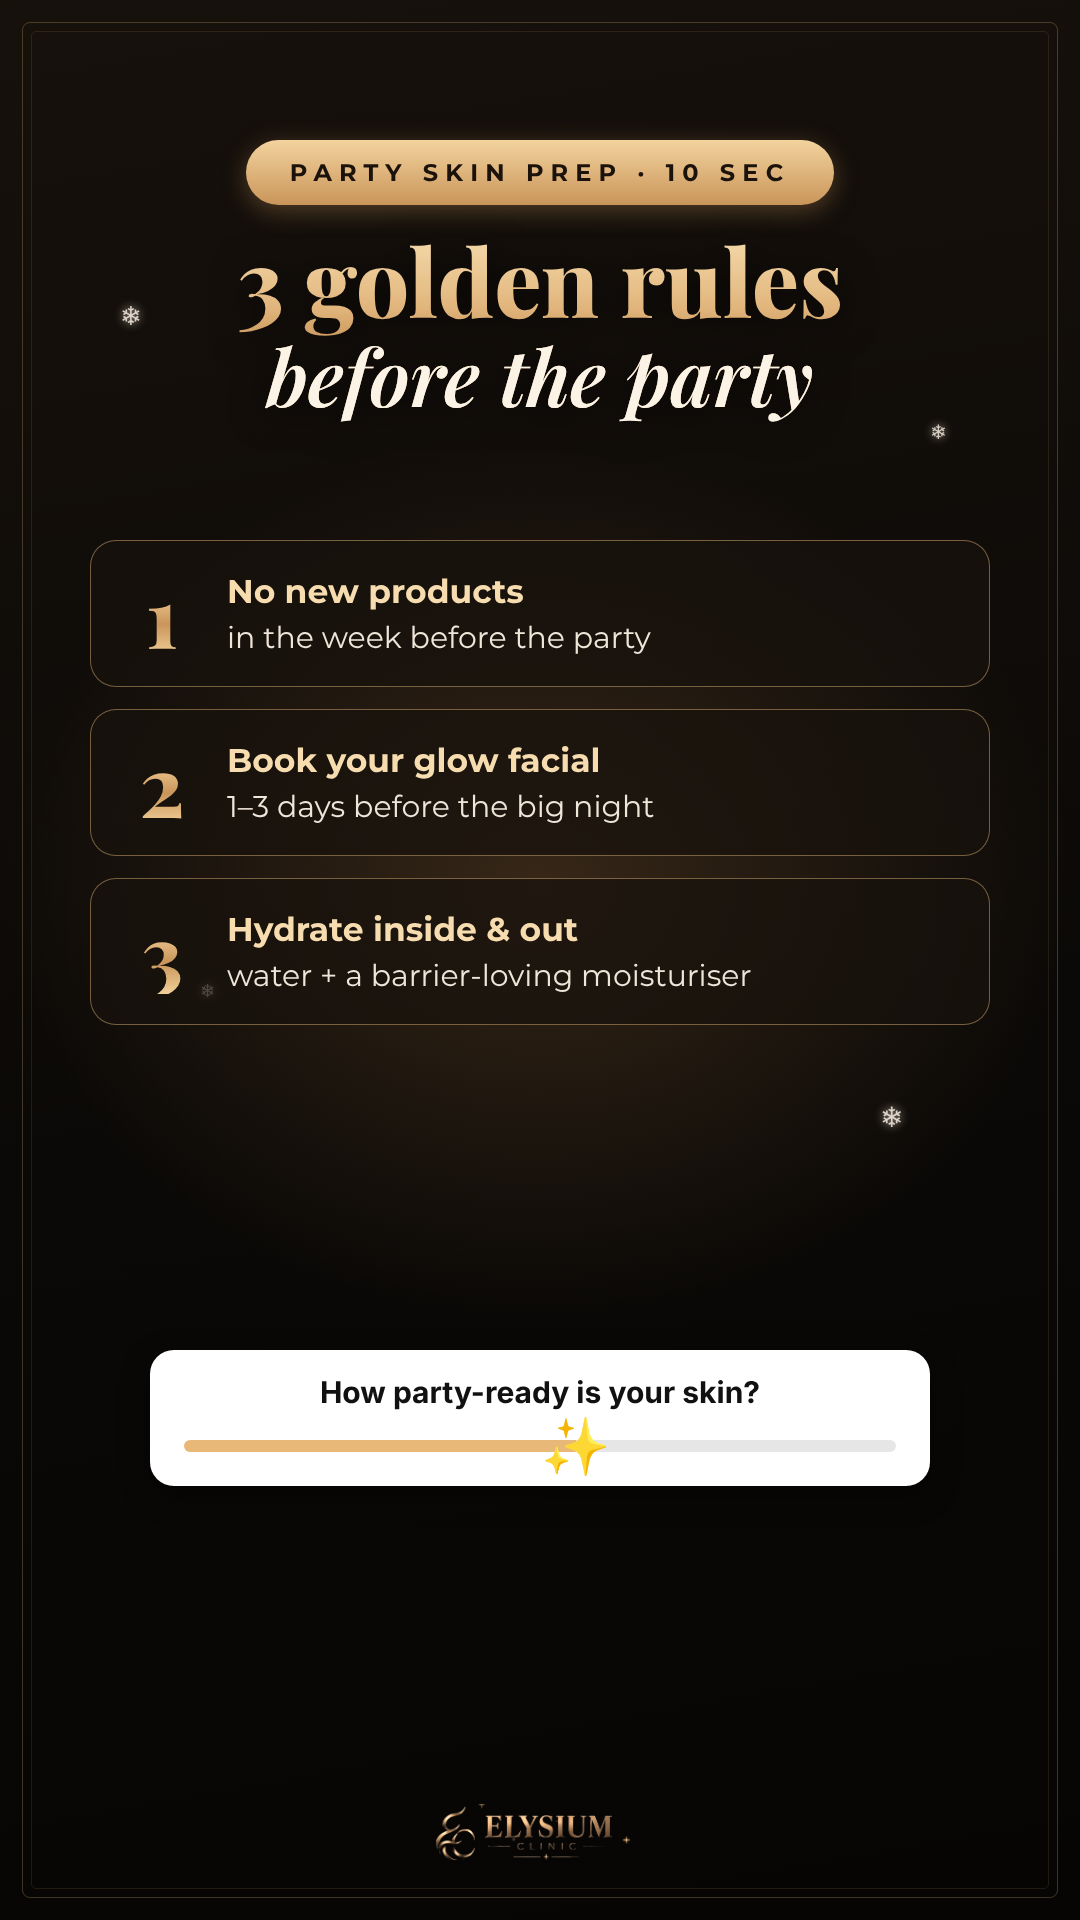
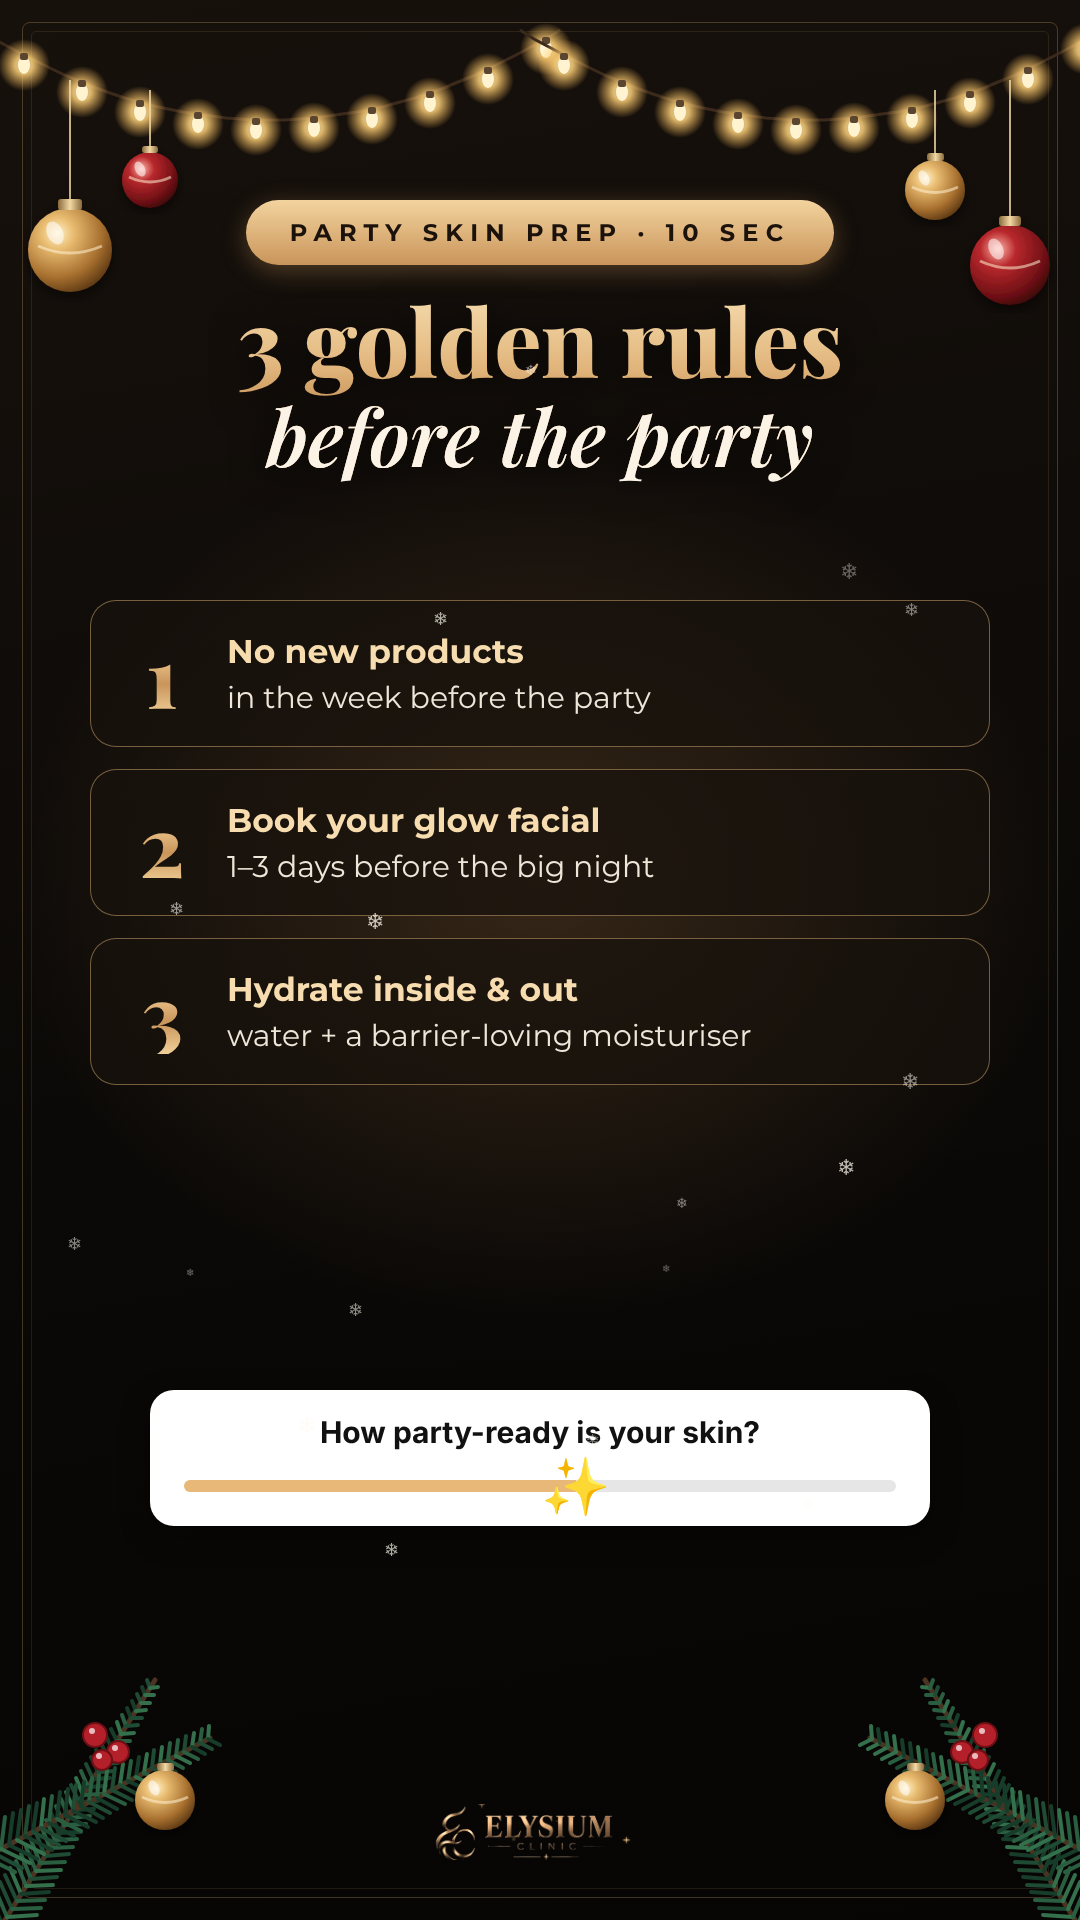
26.11: festive decor (fairy lights, baubles, pine) on stories, new winter photo
Claude-Session: https://claude.ai/code/session_01SaUhS5EeEBn7oMfuXG8zXf

diff --git a/posts_26_11/src/s3_2030.html b/posts_26_11/src/s3_2030.html
@@ -2,21 +2,21 @@
 .bg{position:absolute;inset:0;background:url(glow_a.jpg) center 40%/cover;filter:blur(3px) brightness(.4);transform:scale(1.05)}
 .shade{position:absolute;inset:0;background:linear-gradient(180deg,rgba(10,7,5,.9) 0%,rgba(10,7,5,.55) 30%,rgba(10,7,5,.65) 55%,rgba(10,7,5,.95) 80%)}
 .snow{position:absolute;color:rgba(255,248,236,.8);text-shadow:0 0 10px rgba(255,240,220,.7)}
-.top{position:absolute;top:150px;left:0;right:0;text-align:center}
+.top{position:absolute;top:200px;left:0;right:0;text-align:center}
 .new{display:inline-block;margin-top:22px;font-size:21px;letter-spacing:.3em;color:var(--gold1);font-weight:700;border:1.5px solid rgba(216,173,116,.7);border-radius:40px;padding:10px 26px}
 .h{font-size:100px;font-weight:800;line-height:1.02;margin-top:26px}
 .h em{display:block;font-style:italic;font-weight:600;font-size:84px;color:#fbf3e6;-webkit-text-fill-color:#fbf3e6;margin-top:6px}
-.card{position:absolute;left:90px;right:90px;top:680px;padding:30px 40px}
+.card{position:absolute;left:90px;right:90px;top:720px;padding:30px 40px}
 .rw{display:flex;justify-content:space-between;align-items:center;padding:18px 0;border-bottom:1px solid rgba(216,173,116,.25)}
 .rw:last-child{border-bottom:none}
 .rw .n{font-size:29px;font-weight:700;color:#fbf3e6}
 .rw .d{font-size:21px;color:#a8998a;margin-top:4px}
 .rw .p{font-family:'Playfair Display',serif;font-size:56px;font-weight:800}
 .rw .p s{font-size:27px;color:#8a7c6a;-webkit-text-fill-color:#8a7c6a;margin-left:8px}
-.slt{position:absolute;left:0;right:0;top:1250px;text-align:center}
+.slt{position:absolute;left:0;right:0;top:1290px;text-align:center}
 .zone{position:absolute;left:0;right:0;text-align:center;font-size:22px;letter-spacing:.3em;color:rgba(246,220,174,.8);font-weight:600}
 .logo{bottom:100px;width:240px}
-</style></head><body><div class="s"><div class="bg"></div><div class="shade"></div><div class="deco"></div><div class="snow" style="left:120px;top:300px;font-size:26px">❄</div><div class="snow" style="left:930px;top:420px;font-size:20px">❄</div><div class="snow" style="left:200px;top:980px;font-size:18px">❄</div><div class="snow" style="left:880px;top:1100px;font-size:28px">❄</div>
+</style></head><body><div class="s"><div class="bg"></div><div class="shade"></div><div class="deco"></div>
 <div class="top"><div class="pill">BLACK FRIDAY · 4 DAYS LEFT</div><br><div class="new">▶ NEW REEL · WHAT TO BOOK &amp; WHEN</div>
 <div class="h goldtext serif ds">Party-ready<em>skin</em></div></div>
 <div class="card glass">
@@ -25,6 +25,6 @@
 <div class="rw"><div><div class="n">ElastiStrom &amp; RF</div><div class="d">party next week · instant lift</div></div><div class="p goldtext">£130<s>£210</s></div></div>
 <div class="rw"><div><div class="n">RF Microneedling</div><div class="d">party in 4+ weeks · peak results</div></div><div class="p goldtext">£110<s>£180</s></div></div></div>
 <div class="slt"><div class="pill" style="font-size:24px">__SLOTS__</div></div>
-<div class="zone" style="top:1380px">BOOK YOUR SLOT ↓</div>
+<div class="zone" style="top:1410px">BOOK YOUR SLOT ↓</div>
 <div class="zone" style="top:1620px;font-size:20px;color:rgba(239,230,218,.6)">or send “PARTY” + your party date in DM</div>
-<div class="logo"><img src="logo.png"></div></div></body></html>
+<img src="xmas_decor.svg" style="position:absolute;inset:0;width:1080px;height:1920px;pointer-events:none"><div class="logo"><img src="logo.png"></div></div></body></html>

diff --git a/posts_26_11/src/s2_1300.html b/posts_26_11/src/s2_1300.html
@@ -6,20 +6,20 @@
 .zone{position:absolute;left:0;right:0;text-align:center;font-size:22px;letter-spacing:.3em;color:rgba(246,220,174,.85);font-weight:600}
 .snow{position:absolute;color:rgba(255,248,236,.8);text-shadow:0 0 10px rgba(255,240,220,.7)}
 .s{background:radial-gradient(ellipse 760px 620px at 50% 46%,rgba(150,105,60,.30),transparent 70%),linear-gradient(170deg,#17110c 0%,#0b0907 55%,#060504 100%)}
-.top{position:absolute;top:140px;left:0;right:0;text-align:center}
+.top{position:absolute;top:200px;left:0;right:0;text-align:center}
 .h{font-size:94px;font-weight:800;line-height:1.04;margin-top:26px}
 .h em{display:block;font-style:italic;font-weight:600;font-size:78px;color:#fbf3e6;-webkit-text-fill-color:#fbf3e6;margin-top:6px}
-.tips{position:absolute;left:90px;right:90px;top:540px;display:flex;flex-direction:column;gap:22px}
+.tips{position:absolute;left:90px;right:90px;top:600px;display:flex;flex-direction:column;gap:22px}
 .tip{display:flex;align-items:center;gap:30px;padding:28px 36px;border-radius:26px;background:rgba(24,18,12,.72);border:1.5px solid rgba(216,173,116,.5)}
 .tip .n{font-family:'Playfair Display',serif;font-size:84px;font-weight:800;line-height:1;width:70px;text-align:center}
 .tip .t{font-size:30px;line-height:1.35;color:#efe6da}
 .tip .t i{display:block;font-style:normal;font-weight:700;color:#f6dcae;font-size:33px;margin-bottom:4px}
 .logo{bottom:60px;width:210px}
-</style></head><body><div class="s"><div class="deco"></div><div class="snow" style="left:120px;top:300px;font-size:26px">❄</div><div class="snow" style="left:930px;top:420px;font-size:20px">❄</div><div class="snow" style="left:200px;top:980px;font-size:18px">❄</div><div class="snow" style="left:880px;top:1100px;font-size:28px">❄</div>
+</style></head><body><div class="s"><div class="deco"></div>
 <div class="top"><div class="pill">PARTY SKIN PREP · 10 SEC</div><div class="h goldtext serif ds">3 golden rules<em>before the party</em></div></div>
 <div class="tips">
 <div class="tip"><div class="n goldtext">1</div><div class="t"><i>No new products</i>in the week before the party</div></div>
 <div class="tip"><div class="n goldtext">2</div><div class="t"><i>Book your glow facial</i>1–3 days before the big night</div></div>
 <div class="tip"><div class="n goldtext">3</div><div class="t"><i>Hydrate inside &amp; out</i>water + a barrier-loving moisturiser</div></div></div>
 __STK__
-<div class="logo"><img src="logo.png"></div></div></body></html>
+<img src="xmas_decor.svg" style="position:absolute;inset:0;width:1080px;height:1920px;pointer-events:none"><div class="logo"><img src="logo.png"></div></div></body></html>

diff --git a/posts_26_11/src/s1_0830.html b/posts_26_11/src/s1_0830.html
@@ -5,13 +5,13 @@
 .stk .bar i{position:absolute;left:55%;top:50%;transform:translate(-50%,-50%);font-style:normal;font-size:56px}
 .zone{position:absolute;left:0;right:0;text-align:center;font-size:22px;letter-spacing:.3em;color:rgba(246,220,174,.85);font-weight:600}
 .snow{position:absolute;color:rgba(255,248,236,.8);text-shadow:0 0 10px rgba(255,240,220,.7)}
-.s{background:#0b0907 url(winter.jpg) center 150px/110% auto no-repeat}
-.shade{position:absolute;inset:0;background:linear-gradient(180deg,#0b0907 0%,#0b0907 9%,rgba(11,9,7,.6) 14.5%,rgba(11,9,7,.08) 24%,rgba(11,9,7,0) 46%,rgba(11,9,7,.6) 56%,rgba(11,9,7,.92) 64%,#0b0907 76%)}
-.top{position:absolute;top:110px;left:0;right:0;text-align:center}
+.s{background:#0b0907 url(winter2.jpg) center 330px/100% auto no-repeat}
+.shade{position:absolute;inset:0;background:linear-gradient(180deg,#0b0907 0%,#0b0907 17.5%,rgba(11,9,7,.75) 21%,rgba(11,9,7,.35) 27%,rgba(11,9,7,.15) 34%,rgba(11,9,7,.1) 46%,rgba(11,9,7,.65) 56%,rgba(11,9,7,.93) 64%,#0b0907 74%)}
+.top{position:absolute;top:180px;left:0;right:0;text-align:center}
 .h{font-size:100px;font-weight:800;line-height:1.02;margin-top:22px}
 .h em{display:block;font-style:italic;font-weight:600;font-size:84px;color:#fbf3e6;-webkit-text-fill-color:#fbf3e6}
 .logo{bottom:70px;width:210px}
-</style></head><body><div class="s"><div class="shade"></div><div class="deco"></div><div class="snow" style="left:120px;top:300px;font-size:26px">❄</div><div class="snow" style="left:930px;top:420px;font-size:20px">❄</div><div class="snow" style="left:200px;top:980px;font-size:18px">❄</div><div class="snow" style="left:880px;top:1100px;font-size:28px">❄</div>
+</style></head><body><div class="s"><div class="shade"></div><div class="deco"></div>
 <div class="top"><div class="pill">GOOD MORNING FROM ELYSIUM ☕</div><div class="h goldtext serif ds">Party season<em>is here 🎄</em></div></div>
 __STK__
-<div class="logo"><img src="logo.png"></div></div></body></html>
+<img src="xmas_decor.svg" style="position:absolute;inset:0;width:1080px;height:1920px;pointer-events:none"><div class="logo"><img src="logo.png"></div></div></body></html>

diff --git a/posts_26_11/src/render.js b/posts_26_11/src/render.js
@@ -2,10 +2,10 @@
 const {chromium}=require('playwright');const fs=require('fs');const path=require('path');
 const D=__dirname,OUT=path.join(D,'..');const SL=process.argv[2]||'LIMITED SLOTS LEFT';
 const z=t=>`<div class="zone" style="top:${t}px">`;
-const POLL='<div class="stk" style="top:1230px"><div class="qq">When is your Christmas party?</div><div class="o">This weekend 🥂</div><div class="o">Next week</div><div class="o">Later in December</div></div>';
-const SLIDE='<div class="stk" style="top:1350px"><div class="qq">How party-ready is your skin?</div><div class="bar"><i>✨</i></div></div>';
-const jobs=[['s1_0830','story1_0830_party_poll.png',z(1330)+'↓ POLL ↓</div>'],['s1_0830','podglad_story1_ankieta.png',POLL],
- ['s2_1300','story2_1300_party_prep.png',z(1400)+'↓ EMOJI SLIDER ↓</div>'],['s2_1300','podglad_story2_suwak.png',SLIDE],
+const POLL='<div class="stk" style="top:1270px"><div class="qq">When is your Christmas party?</div><div class="o">This weekend 🥂</div><div class="o">Next week</div><div class="o">Later in December</div></div>';
+const SLIDE='<div class="stk" style="top:1390px"><div class="qq">How party-ready is your skin?</div><div class="bar"><i>✨</i></div></div>';
+const jobs=[['s1_0830','story1_0830_party_poll.png',z(1380)+'↓ POLL ↓</div>'],['s1_0830','podglad_story1_ankieta.png',POLL],
+ ['s2_1300','story2_1300_party_prep.png',z(1430)+'↓ EMOJI SLIDER ↓</div>'],['s2_1300','podglad_story2_suwak.png',SLIDE],
  ['s3_2030','story3_2030_party_oferta.png','']];
 (async()=>{const b=await chromium.launch();
 for(const [n,out,stk] of jobs){const p=await b.newPage({viewport:{width:1080,height:1920}});
